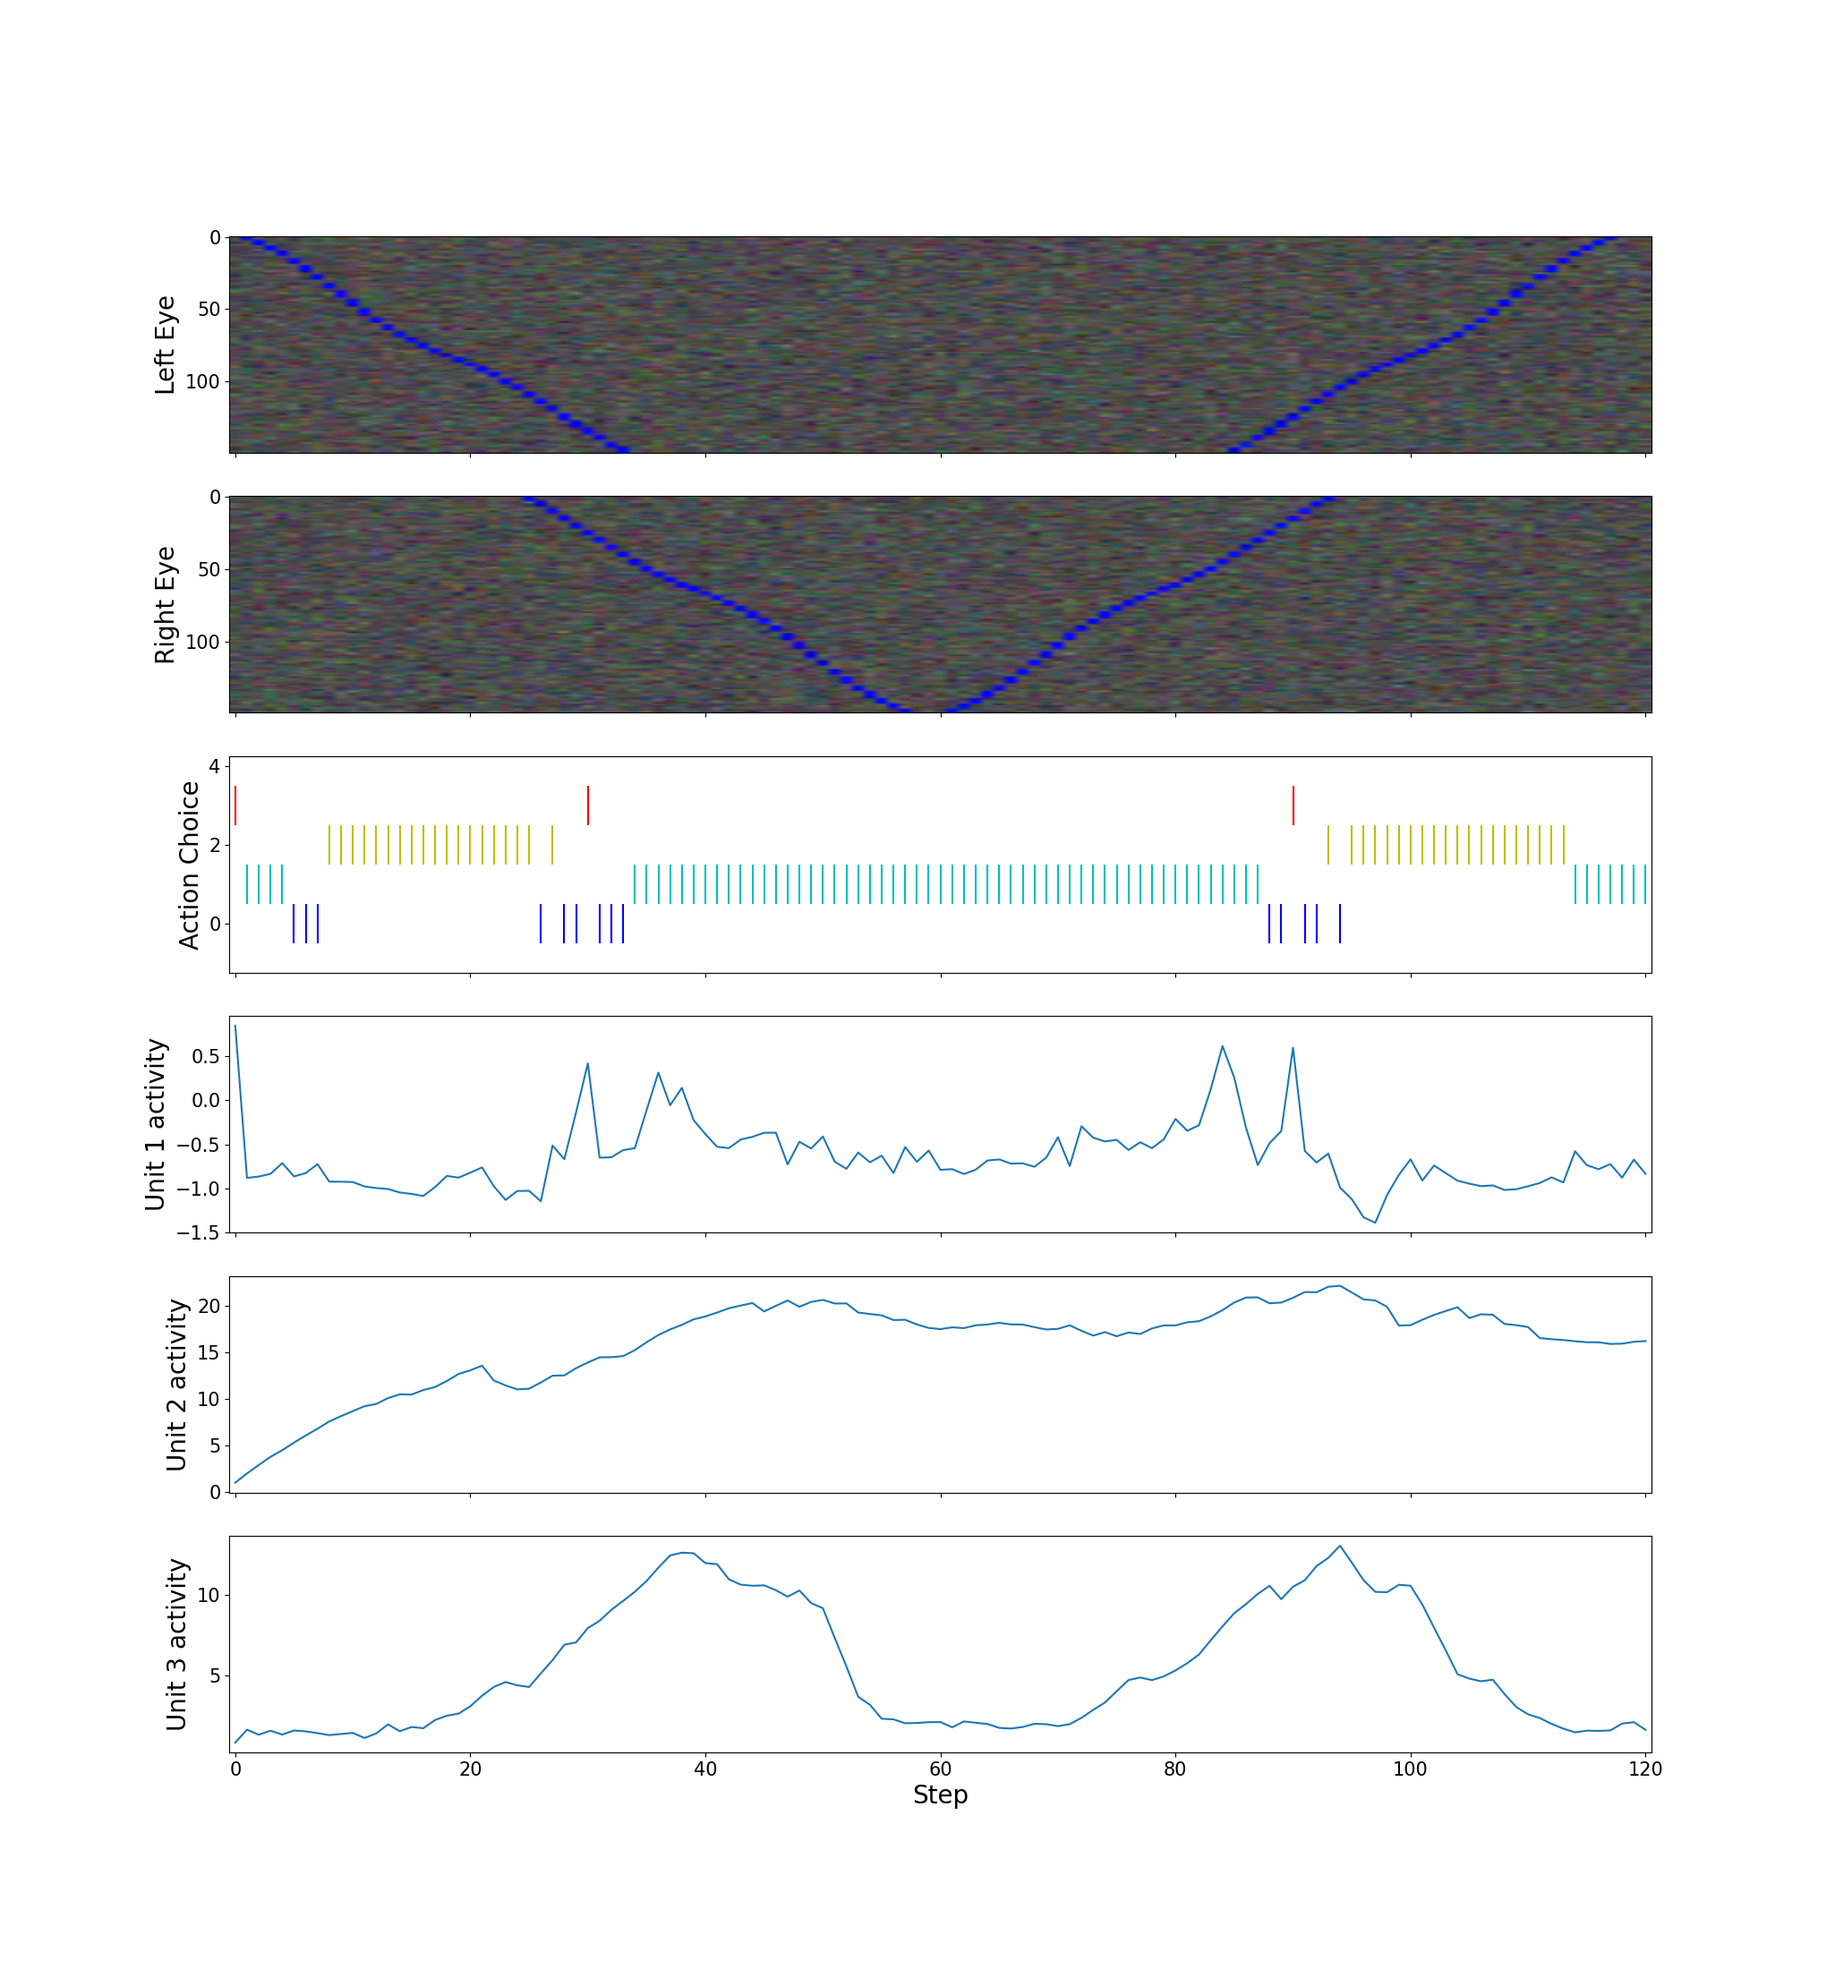
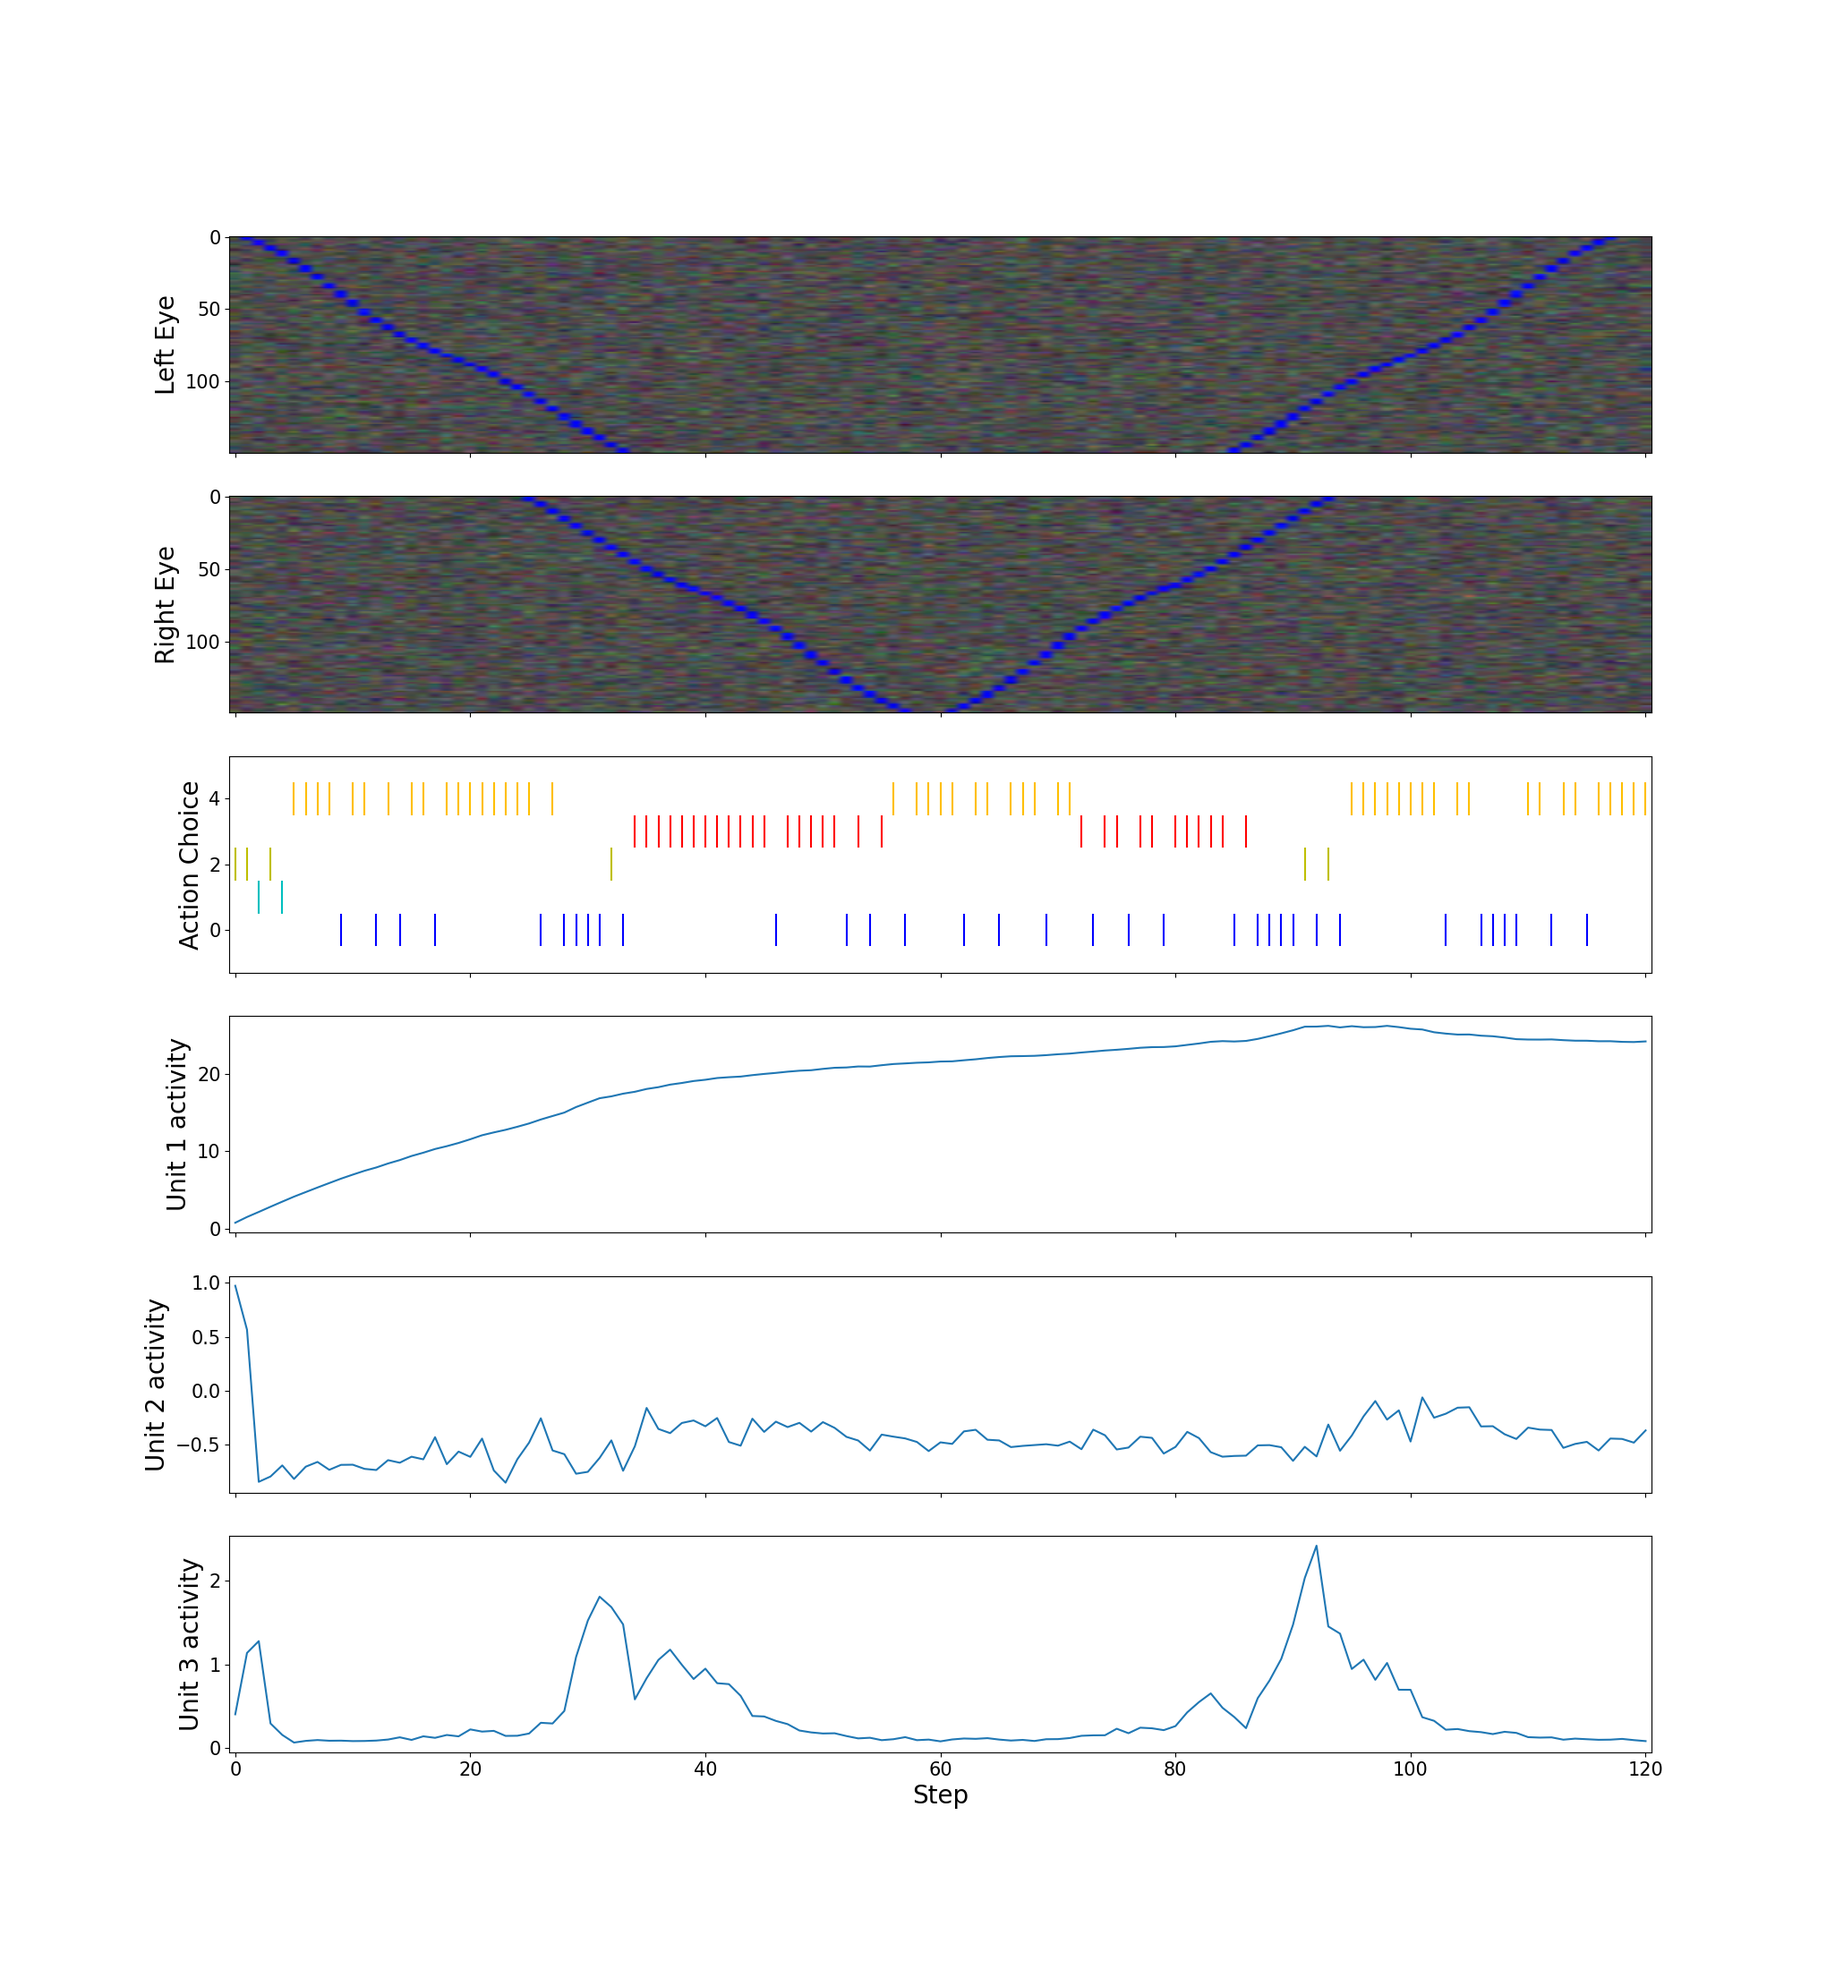
None

diff --git a/run.py b/run.py
@@ -105,10 +105,32 @@ naturalistic_assay_configuration = [
 ]
 
 asaph_data_configuration = [
+    # {
+    #     "Model Name": "realistic_action_space",
+    #     "Environment Name": "example",
+    #     "Assay Configuration Name": "realistic_actions",
+    #     "Trial Number": 1,
+    #     "Run Mode": "Assay",
+    #     "Priority": 1,
+    #     "Realistic Bouts": True,
+    #     "Using GPU": False,
+    #     "monitor gpu": False,
+    #     "Assays": [
+    #         {
+    #             "assay id": "All-Features",
+    #             "stimulus paradigm": "Naturalistic",
+    #             "duration": 1000,
+    #             "fish setup": "Free",
+    #             "save frames": True,
+    #             "recordings": ["behavioural choice", "rnn state", "observation", "position"],
+    #             "interactions": []
+    #         }
+    #     ],
+    # },
     {
-        "Model Name": "base",
+        "Model Name": "conditional_prey_and_predators",
         "Environment Name": "example",
-        "Assay Configuration Name": "Asaph",
+        "Assay Configuration Name": "simple_actions",
         "Trial Number": 1,
         "Run Mode": "Assay",
         "Priority": 1,
@@ -119,114 +141,54 @@ asaph_data_configuration = [
             {
                 "assay id": "All-Features",
                 "stimulus paradigm": "Naturalistic",
-                "duration": 200,
+                "duration": 1000,
                 "fish setup": "Free",
                 "save frames": True,
-                "recordings": [],
+                "recordings": ["behavioural choice", "rnn state", "observation", "position"],
                 "interactions": []
             }
         ],
     },
     # {
-    #     "Model Name": "earlier_transition",
-    #     "Environment Name": "example",
-    #     "Assay Configuration Name": "Asaph",
+    #     "Model Name": "realistic_action_space",
+    #     "Environment Name": "test_square",
     #     "Trial Number": 1,
+    #     "Assay Configuration Name": "Prey Stimuli",
     #     "Run Mode": "Assay",
-    #     "Priority": 1,
-    #     "Realistic Bouts": False,
+    #     "Realistic Bouts": True,
     #     "Using GPU": False,
-    #     "monitor gpu": True,
+    #     "monitor gpu": False,
+    #     "Priority": 1,
     #     "Assays": [
     #         {
-    #             "assay id": "All-Features",
-    #             "stimulus paradigm": "Naturalistic",
-    #             "duration": 200,
-    #             "fish setup": "Free",
+    #             "assay id": "Visual-Stimulus-Assay-2",
+    #             "stimulus paradigm": "Projection",
+    #             "duration": 121,
+    #             "fish setup": "Tethered",
     #             "save frames": True,
-    #             "recordings": [],
+    #             "recordings": ["behavioural choice", "rnn state", "observation", "position"],
+    #             "stimuli": {
+    #                 "prey 1": [
+    #                     {"step": 0,
+    #                      "position": [100, 100]},
+    #                     {"step": 20,
+    #                      "position": [300, 100]},
+    #                     {"step": 40,
+    #                      "position": [300, 300]},
+    #                     {"step": 60,
+    #                      "position": [100, 300]},
+    #                     {"step": 80,
+    #                      "position": [300, 300]},
+    #                     {"step": 100,
+    #                      "position": [300, 100]},
+    #                     {"step": 120,
+    #                      "position": [100, 100]},
+    #                 ],
+    #             },
     #             "interactions": []
-    #         }
+    #         },
     #     ],
-    # },
-# {
-#         "Model Name": "earlier_transition",
-#         "Environment Name": "test_square",
-#         "Trial Number": 1,
-#         "Assay Configuration Name": "new_model_data",
-#         "Run Mode": "Assay",
-#         "Realistic Bouts": True,
-#         "Using GPU": False,
-#         "monitor gpu": False,
-#         "Priority": 1,
-#         "Assays": [
-#             {
-#                 "assay id": "Prey-Stimulus",
-#                 "stimulus paradigm": "Projection",
-#                 "duration": 121,
-#                 "fish setup": "Tethered",
-#                 "save frames": True,
-#                 "recordings": ["behavioural choice", "rnn state", "observation"],
-#                 "stimuli": {
-#                     "prey 1": [
-#                         {"step": 0,
-#                          "position": [100, 100]},
-#                         {"step": 20,
-#                          "position": [300, 100]},
-#                         {"step": 40,
-#                          "position": [300, 300]},
-#                         {"step": 60,
-#                          "position": [100, 300]},
-#                         {"step": 80,
-#                          "position": [300, 300]},
-#                         {"step": 100,
-#                          "position": [300, 100]},
-#                         {"step": 120,
-#                          "position": [100, 100]},
-#                     ],
-#                 },
-#                 "interactions": []},
-#             ]
-#     },
-#     {
-#     "Model Name": "base",
-#         "Environment Name": "test_square",
-#         "Trial Number": 1,
-#         "Assay Configuration Name": "old_model_data",
-#         "Run Mode": "Assay",
-#         "Realistic Bouts": True,
-#         "Using GPU": False,
-#         "monitor gpu": False,
-#         "Priority": 1,
-#         "Assays": [
-#             {
-#                 "assay id": "Prey-Stimulus",
-#                 "stimulus paradigm": "Projection",
-#                 "duration": 121,
-#                 "fish setup": "Tethered",
-#                 "save frames": True,
-#                 "recordings": ["behavioural choice", "rnn state", "observation"],
-#                 "stimuli": {
-#                     "prey 1": [
-#                         {"step": 0,
-#                          "position": [100, 100]},
-#                         {"step": 20,
-#                          "position": [300, 100]},
-#                         {"step": 40,
-#                          "position": [300, 300]},
-#                         {"step": 60,
-#                          "position": [100, 300]},
-#                         {"step": 80,
-#                          "position": [300, 300]},
-#                         {"step": 100,
-#                          "position": [300, 100]},
-#                         {"step": 120,
-#                          "position": [100, 100]},
-#                     ],
-#                 },
-#                 "interactions": []},
-#             ]
-# }
+    # }
 ]
 
 training_configuration = [
@@ -412,5 +374,5 @@ new_training_configuration = [
 
 # TODO: Change fish steup to tethered boolean.
 print(f"Start time: {datetime.now().strftime('%d/%m/%Y %H:%M:%S')}")
-manager = TrialManager(new_training_configuration)
+manager = TrialManager(asaph_data_configuration)
 manager.run_priority_loop()

diff --git a/Analysis-Tools/plot_observation_action_choice_and_activity.py b/Analysis-Tools/plot_observation_action_choice_and_activity.py
@@ -22,7 +22,7 @@ def plot_all(rnn_data, observation, action_choice):
                            (0.0, 0.75, 0.75),
                            (0.75, 0.75, 0.0),
                            (1.0, 0.0, 0.0),
-                           # (1.0, 0.75, 0.0),
+                           (1.0, 0.75, 0.0),
                            # (0.0, 0.75, 1.0),
                            ])
 
@@ -60,7 +60,7 @@ def convert_photons_to_int(obs):
     return new_obs
 
 
-data = load_data("old_model_data", "Prey-Stimulus", "base-1")
+data = load_data("Prey Stimuli", "Visual-Stimulus-Assay-2", "realistic_action_space-1")
 
 # rnn_unit_1 = [i["rnn state"][0][0] for i in data]
 # rnn_unit_2 = [i["rnn state"][0][1] for i in data]
